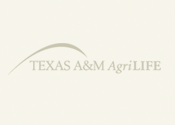
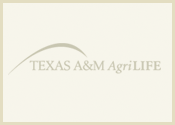
default img for featured posts loop on home page

Changed region(s): [[0.0, 0.0, 1.0, 1.0]]

diff --git a/header.php b/header.php
@@ -86,7 +86,12 @@
 			<?php elseif($researchonly) :?>
 			<li class="research-item"><a href="http://agriliferesearch.tamu.edu/">Texas A&amp;M Research</a></li>
 			<?php elseif($tvmdlonly) :?>
-			<li class="tvmdl-item"><a href="http://tvmdl.tamu.edu/">Texas Veterinary Medical Diagnostics Laboratory</a></li>									
+			<li class="tvmdl-item"><a href="http://tvmdl.tamu.edu/">Texas Veterinary Medical Diagnostics Laboratory</a></li>	
+			<?php elseif($isextension && $isresearch && $iscollege && !$istvmdl) :?>
+			<li class="tx-ext-item"><a href="http://agrilifeextension.tamu.edu/">Texas AgriLife	Extension Service</a></li>
+			<li class="research-item"><a href="http://agriliferesearch.tamu.edu/">Texas A&amp;M Research</a></li>
+			<li class="college-item"><a href="http://aglifesciences.tamu.edu/">Texas A&amp;M College of Agriculture and Life Sciences</a></li>			
+											
 			<?php else : ?>
 			<li class="tx-ext-item"><a href="http://agrilifeextension.tamu.edu/">Texas AgriLife	Extension Service</a></li>
 			<li class="research-item"><a href="http://agriliferesearch.tamu.edu/">Texas A&amp;M Research</a></li>

diff --git a/page-home.php b/page-home.php
@@ -26,7 +26,6 @@ get_header(); ?>
 <?php endwhile; ?>	
 		<div id="home-middle">
 		<div class="home-middle-features">
-		
 			<?php $my_query = new WP_Query('showposts=3');
 			$count = 0;
 	  		while ($my_query->have_posts()) : $my_query->the_post();
@@ -35,7 +34,13 @@ get_header(); ?>
 	  		?>
 	        <div class="featured-wrap" id="featured-wrapper-<?php echo $count;?>">
 			<h3 class="entry-title"><a href="<?php the_permalink();?>"><?php echo get_the_title(); ?></a></h3>
-			<p><a href="<?php the_permalink();?>"><?php the_date('m/d', '<span class="date">', '</span>'); ?><?php the_post_thumbnail('HomeWidget');?></a></p><?php the_excerpt();?>
+			<p><a href="<?php the_permalink();?>"><?php the_date('m/d', '<span class="date">', '</span>'); ?><?php if ( has_post_thumbnail() ) {
+  the_post_thumbnail('HomeWidget'); 
+} else  { 
+	echo '<img src="'.get_bloginfo("template_url").'/images/AgriLife-default-post-image.png" alt="AgriLife Logo" title="AgriLife" />'; 
+	}
+	?></a></p>
+		<?php the_excerpt();?>
 			</div><!-- end .featured-wrap -->
 			<?php endwhile;  wp_reset_query; ?>	
 													
